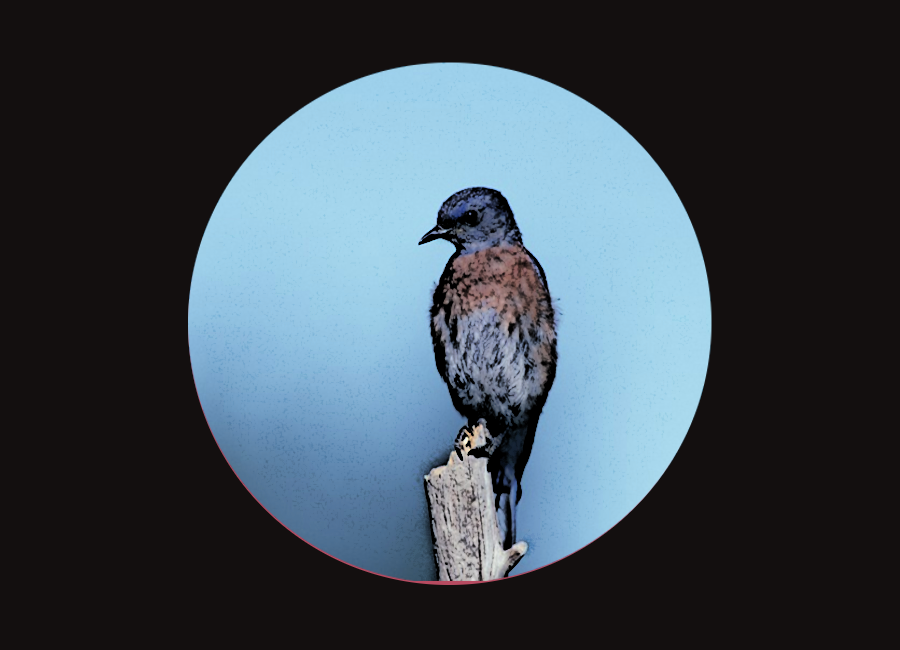
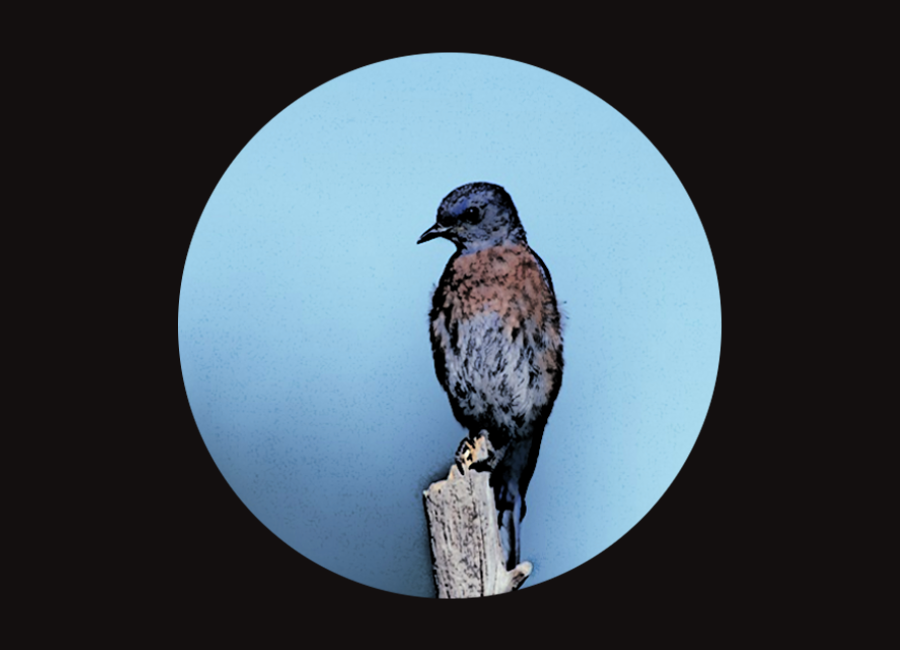
images in circles

diff --git a/index.html b/index.html
@@ -102,7 +102,7 @@
                                 <i class="fa fa-search-plus fa-3x"></i>
                             </div>
                         </div>
-                        <img src="img/portfolio/howfast_resize.png" class="img-responsive" alt="">
+                        <img src="img/portfolio/howfast_circle.png" class="img-responsive" alt="">
                     </a>
                 </div>
                 <div class="col-sm-4 portfolio-item">
@@ -112,7 +112,7 @@
                                 <i class="fa fa-search-plus fa-3x"></i>
                             </div>
                         </div>
-                        <img src="img/portfolio/book_resize.png" class="img-responsive" alt="">
+                        <img src="img/portfolio/cartoon_book.png" class="img-responsive" alt="">
                     </a>
                 </div>
                 <div class="col-sm-4 portfolio-item">

diff --git a/css/freelancer.css b/css/freelancer.css
@@ -82,9 +82,9 @@ hr.star-primary:after {
 header {
     text-align: center;
     color: #fff;
-    background-image: url(/img/portfolio/back.png);
-    background: #18bc9c;
-}
+    background: #ADD8E6;
+/*    background: #18bc9c;
+*/}
 
 header .container {
     padding-top: 100px;
